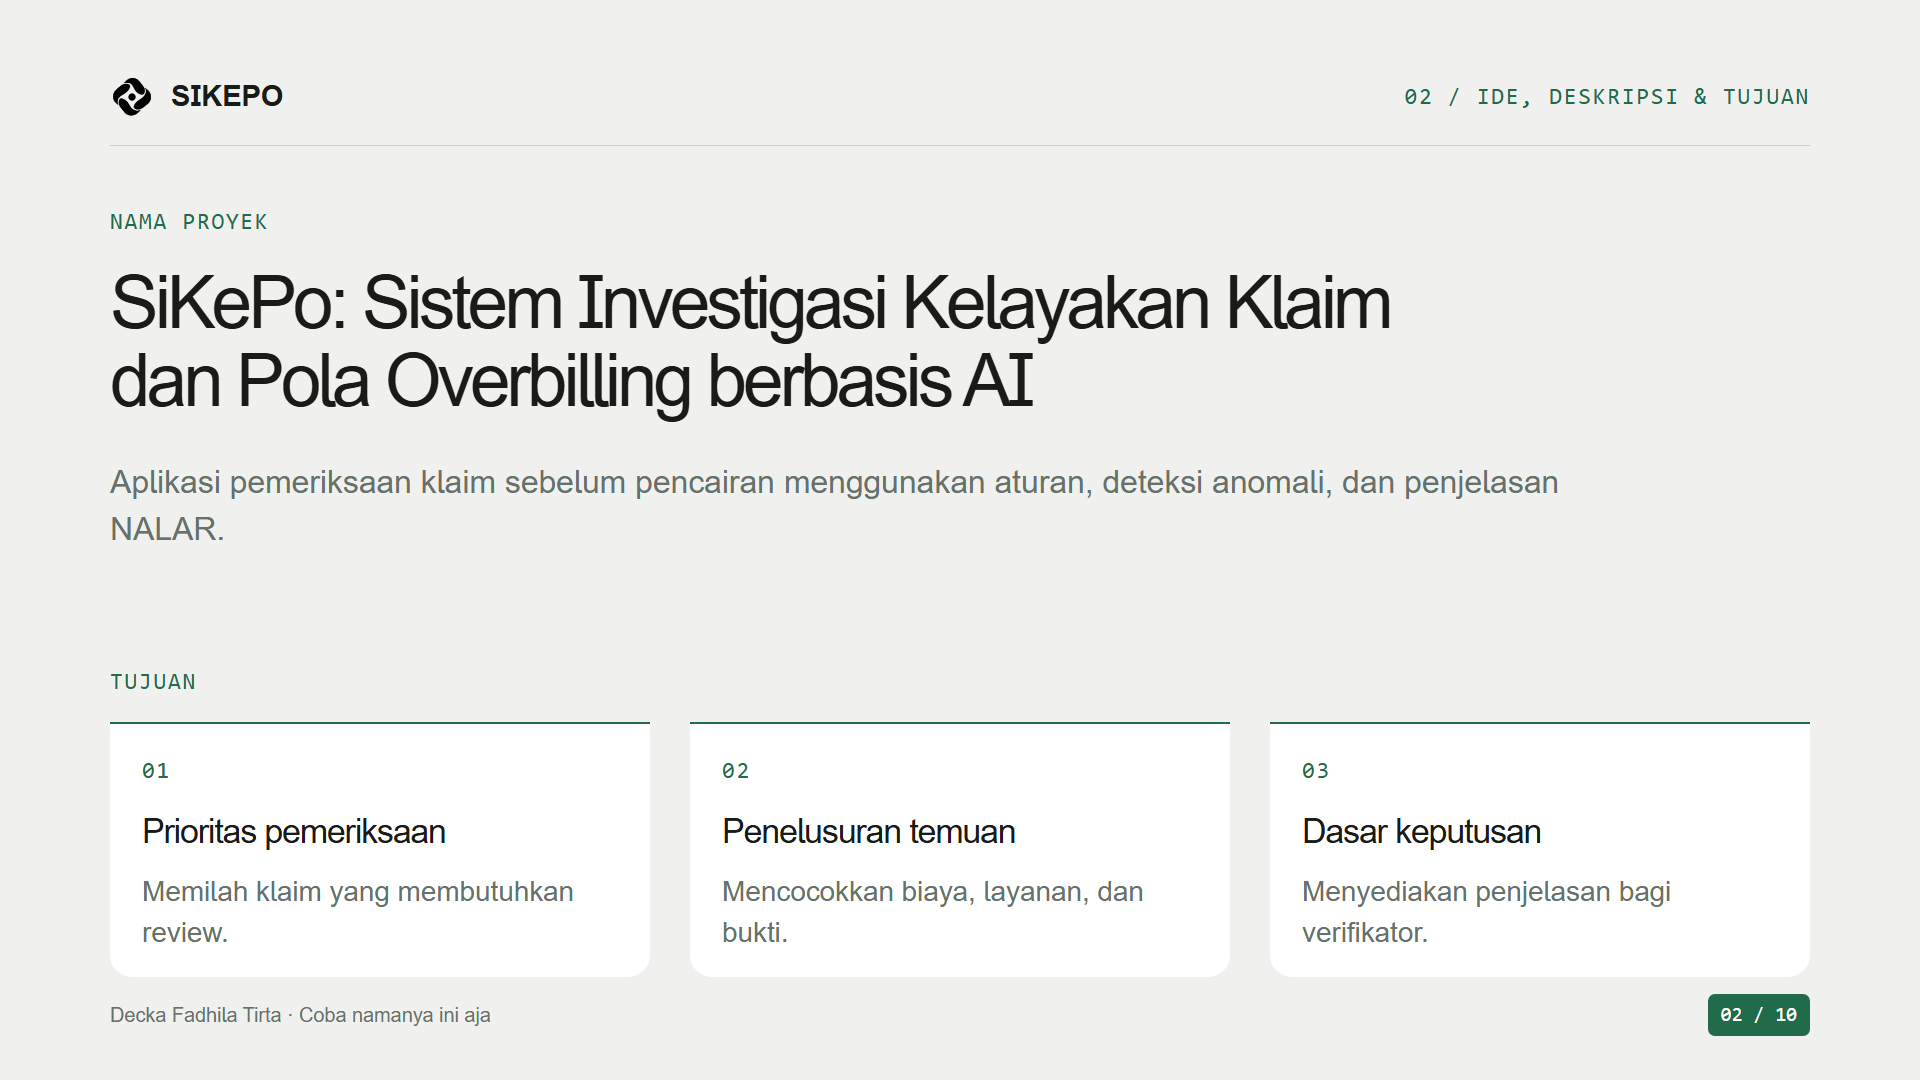
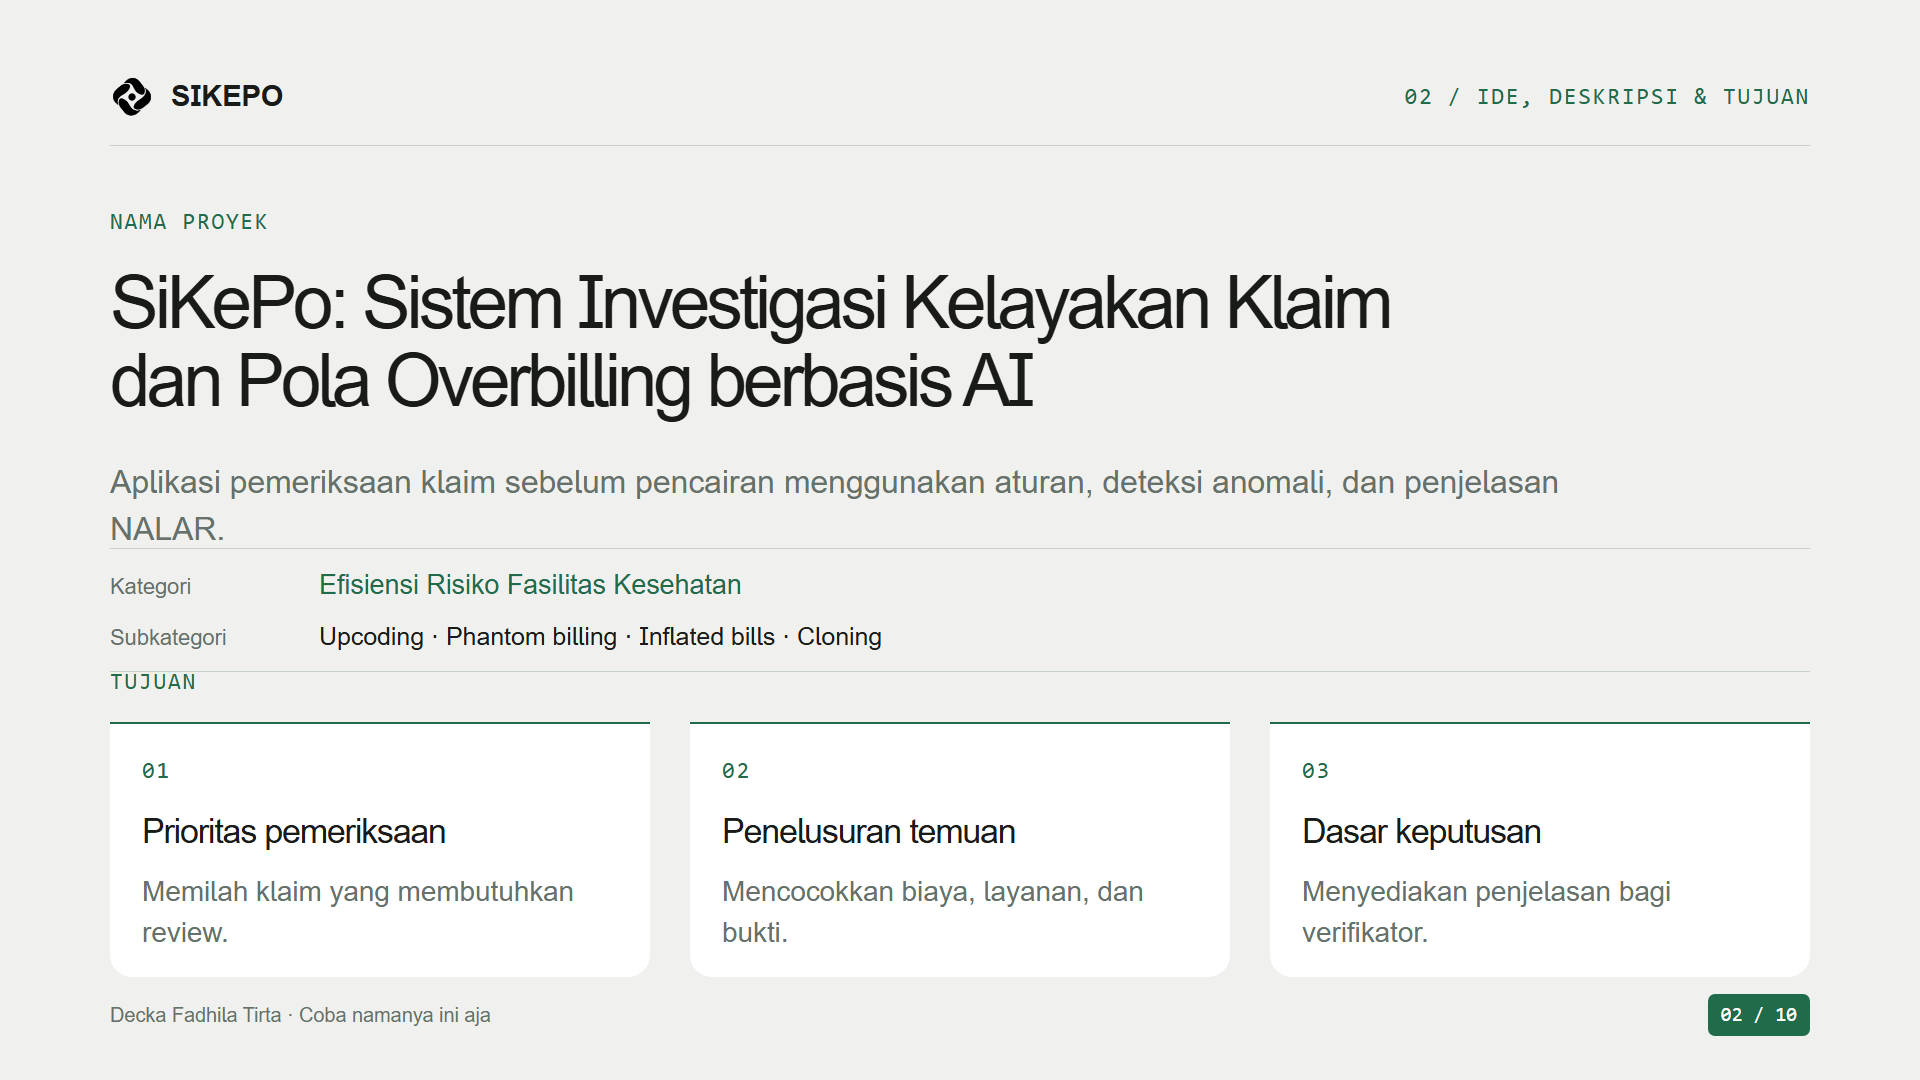
Add proposal category and focus subcategories to slide two

diff --git a/slides/sikepo-pitch/index.tsx b/slides/sikepo-pitch/index.tsx
@@ -26,7 +26,7 @@ function Pill({children,light=false}:{children:React.ReactNode,light?:boolean}){
 const Team:Page=()=> <div style={root}><Header section="01 / Perkenalan tim"/><div style={{display:'grid',gridTemplateColumns:'980px 620px',gap:100,marginTop:110}}><div><p style={{...label,color:green}}>Nama tim</p><h1 style={{fontSize:100,fontWeight:500,lineHeight:1.08,letterSpacing:'-.06em',margin:'33px 0 55px'}}>Coba namanya<br/><span style={{color:'#8b948d'}}>ini aja</span></h1><div style={{borderTop:'1px solid #b8cbbb',paddingTop:35}}><p style={{...label,color:green}}>Anggota / pengembang</p><h2 style={{fontSize:55,letterSpacing:'-.045em',fontWeight:500,margin:'22px 0 30px'}}>Decka Fadhila Tirta</h2><Pill>Peserta individu</Pill></div></div><div style={{background:'#e2e9e2',padding:25,borderRadius:30,boxSizing:'border-box',height:690}}><img src={deckaPhoto} alt="Decka Fadhila Tirta" style={{width:570,height:640,objectFit:"cover",objectPosition:"50% center",borderRadius:18}}/></div></div><Footer/></div>;
 
 function Aim({no,heading,body}:{no:string,heading:string,body:string}){return <div style={{width:540,boxSizing:'border-box',padding:'30px 32px',height:255,borderTop:'2px solid #206b4a',background:'#fff',borderRadius:'0 0 22px 22px'}}><span style={{...label,color:green}}>{no}</span><h3 style={{fontSize:34,fontWeight:500,letterSpacing:'-.035em',margin:'18px 0 15px'}}>{heading}</h3><p style={{...text,fontSize:28}}>{body}</p></div>}
-const Idea:Page=()=> <div style={root}><Header section="02 / Ide, deskripsi & tujuan"/><div style={{marginTop:83}}><p style={{...label,color:green}}>Nama proyek</p><h2 style={{...title,fontSize:73,maxWidth:1650,marginTop:24}}>SiKePo: Sistem Investigasi Kelayakan Klaim<br/>dan Pola Overbilling berbasis AI</h2><p style={{...text,maxWidth:1510,marginTop:38}}>Aplikasi pemeriksaan klaim sebelum pencairan menggunakan aturan, deteksi anomali, dan penjelasan NALAR.</p></div><div style={{position:'absolute',left:110,top:665}}><p style={{...label,color:green,marginBottom:22}}>Tujuan</p><div style={{display:'flex',gap:40}}><Aim no="01" heading="Prioritas pemeriksaan" body="Memilah klaim yang membutuhkan review."/><Aim no="02" heading="Penelusuran temuan" body="Mencocokkan biaya, layanan, dan bukti."/><Aim no="03" heading="Dasar keputusan" body="Menyediakan penjelasan bagi verifikator."/></div></div><Footer/></div>;
+const Idea:Page=()=> <div style={root}><Header section="02 / Ide, deskripsi & tujuan"/><div style={{marginTop:83}}><p style={{...label,color:green}}>Nama proyek</p><h2 style={{...title,fontSize:73,maxWidth:1650,marginTop:24}}>SiKePo: Sistem Investigasi Kelayakan Klaim<br/>dan Pola Overbilling berbasis AI</h2><p style={{...text,maxWidth:1510,marginTop:38}}>Aplikasi pemeriksaan klaim sebelum pencairan menggunakan aturan, deteksi anomali, dan penjelasan NALAR.</p></div><div style={{position:'absolute',left:110,right:110,top:548,padding:'16px 0',borderTop:'1px solid #c7d1c9',borderBottom:'1px solid #c7d1c9',display:'grid',gridTemplateColumns:'185px 1fr',columnGap:24,rowGap:12,alignItems:'baseline'}}><span style={{fontSize:22,color:muted}}>Kategori</span><span style={{fontSize:27,color:green}}>Efisiensi Risiko Fasilitas Kesehatan</span><span style={{fontSize:22,color:muted}}>Subkategori</span><span style={{fontSize:25,color:ink}}>Upcoding · Phantom billing · Inflated bills · Cloning</span></div><div style={{position:'absolute',left:110,top:665}}><p style={{...label,color:green,marginBottom:22}}>Tujuan</p><div style={{display:'flex',gap:40}}><Aim no="01" heading="Prioritas pemeriksaan" body="Memilah klaim yang membutuhkan review."/><Aim no="02" heading="Penelusuran temuan" body="Mencocokkan biaya, layanan, dan bukti."/><Aim no="03" heading="Dasar keputusan" body="Menyediakan penjelasan bagi verifikator."/></div></div><Footer/></div>;
 
 function ImpactRow({problem,effect}:{problem:string,effect:string}){return <div style={{display:'grid',gridTemplateColumns:'1fr 1fr',gap:40,padding:'30px 0',borderBottom:'1px solid #c7d3c9'}}><p style={{...text,color:ink,fontSize:31}}>{problem}</p><p style={{...text,color:green,fontSize:31}}>{effect}</p></div>}
 const Background:Page=()=> <div style={root}><Header section="03 / Latar belakang & dampak"/><div style={{display:'grid',gridTemplateColumns:'1120px 510px',gap:70,marginTop:85}}><div><h2 style={title}>Biaya, layanan,<br/><span style={{color:'#8b948d'}}>dan bukti perlu dicocokkan.</span></h2><div style={{display:'grid',gridTemplateColumns:'1fr 1fr',gap:40,marginTop:60,paddingBottom:19,borderBottom:'2px solid #206b4a'}}><p style={{...label,color:muted}}>Masalah</p><p style={{...label,color:green}}>Dampak yang dituju</p></div><ImpactRow problem="Selisih tagihan dan layanan" effect="Temuan ditampilkan beserta bukti yang diperiksa."/><ImpactRow problem="Pengajuan berulang" effect="Sinyal duplikasi diprioritaskan untuk investigasi."/><ImpactRow problem="Banyak klaim perlu ditelaah" effect="Pemeriksa memulai dari prioritas risiko."/></div><div><img alt="Ilustrasi investigasi dokumen klaim" src={claims} style={{width:510,height:650,objectFit:'cover',objectPosition:'65% center',borderRadius:28}}/><p style={{fontSize:24,color:muted,lineHeight:1.4,marginTop:24}}>Dampak operasional belum diukur pada klaim BPJS nyata.</p></div></div><Footer/></div>;
